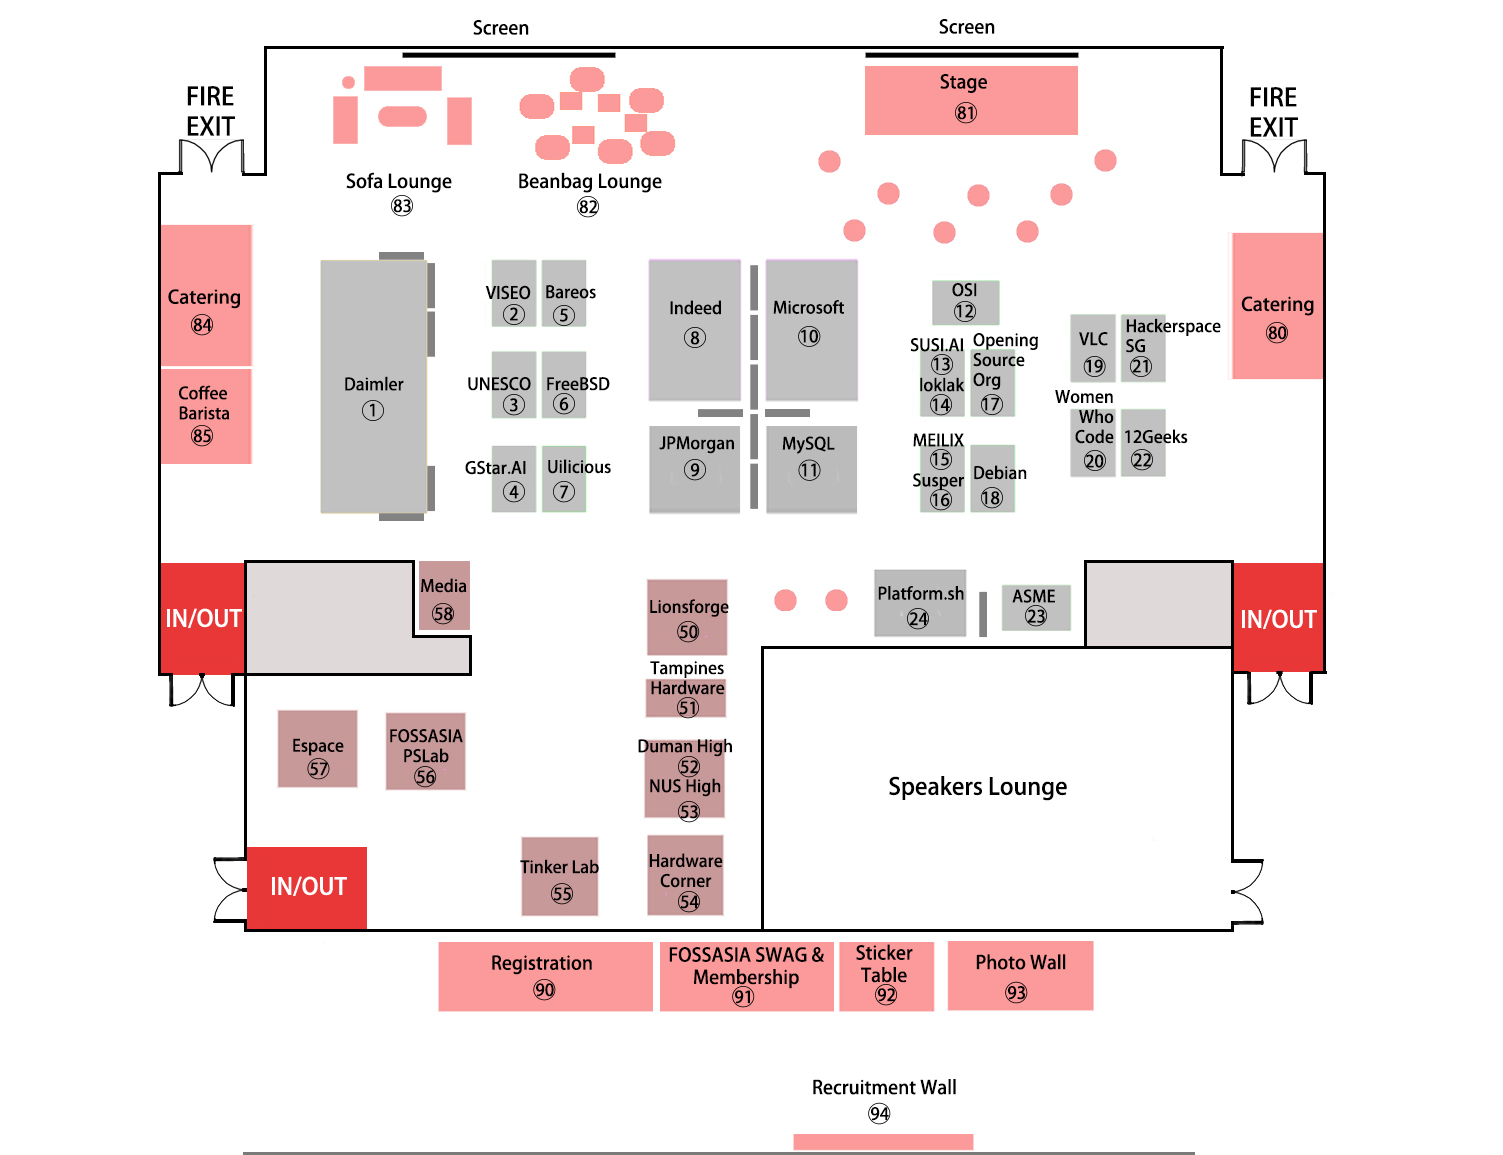
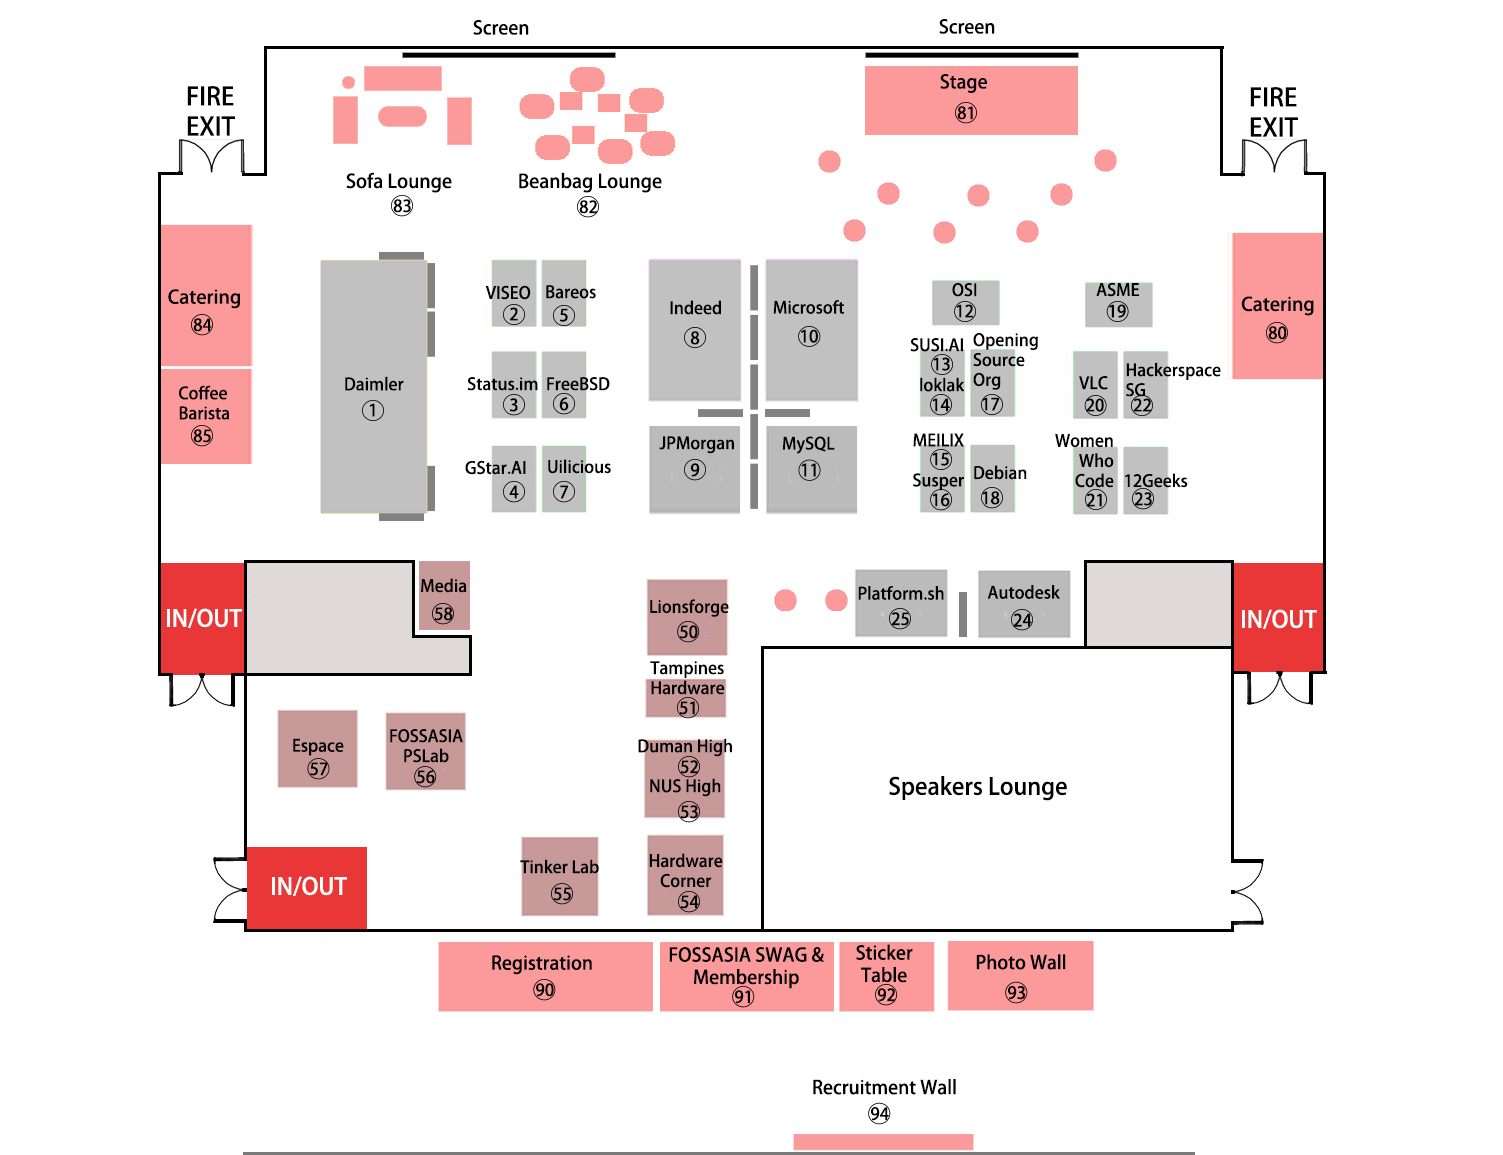
To fix #594 (#595)

Changed region(s): [[0.7039, 0.2182, 0.8263, 0.4675], [0.5509, 0.4675, 0.7039, 0.561], [0.3061, 0.3117, 0.3673, 0.3429]]

diff --git a/exhibition/index.html b/exhibition/index.html
@@ -1039,15 +1039,7 @@
                                         <div class="bottom"></div>
                                     </div>
                                 </li>
-
-                            </ul>
-                        </div>
-
-                       <div class="col-sm-6 col-md-4">
-                            <ul class="schedule-overview">
-                                 
-                                 
-                                 <li>
+                                <li>
                                     <div class="schedule-title">
                                         <span class="time">Lifelong Learning Institute</span>
                                         <span class="title">SkillsFuture Singapore<br></span>
@@ -1061,7 +1053,6 @@
                                             <a target="default" href="https://www.linkedin.com/lifelong-learning-institute-sg/">
                                                 <i class="icon social_linkedin"></i>
                                             </a>
-                                            
                                         </span>
                                     </div>
 
@@ -1075,6 +1066,12 @@
                                         <div class="bottom"></div>
                                     </div>
                                 </li>
+
+                            </ul>
+                        </div>
+
+                       <div class="col-sm-6 col-md-4">
+                            <ul class="schedule-overview">
                                  <li>
                                     <div class="schedule-title">
                                         <span class="time">LionsForge</span>
@@ -1083,7 +1080,6 @@
                                             <a target="default" href="https://lionsforge.com.sg">
                                                 <i class="icon fa fa-external-link"></i>
                                             </a>
-                                            
                                         </span>
                                     </div>
 
@@ -1331,12 +1327,40 @@
                                         <div class="bottom"></div>
                                     </div>
                                 </li>
+                                <li>
+                                    <div class="schedule-title">
+                                        <span class="time">Status.im</span>
+                                        <span class="title">Decentralized Software Development<br></span>
+                                                                                <span class="title"><span>
+                                            <a target="default" href="https://openbounty.status.im/">
+                                            <i class="icon fa fa-external-link"></i>
+                                            </a>
+                                            <a target="default" href="https://twitter.com/ethstatus">
+                                                <i class="icon social_twitter"></i>
+                                            </a>
+                                            <a target="default" href="https://www.facebook.com/ethstatus">
+                                                <i class="icon social_facebook"></i>
+                                            </a>
+                                        </span>
+                                    </div>
+
+                                    <div class="schedule-text">
+                                        <p>Not just a bounty platform to build features and solve bugs that core contributors don't have time to tackle. At Open Bounty, we are redefining software development to make it workable in a decentralised world. Space where repository maintainers can come together, incentivize work, and find great talent. A hub for developers, to search for and contribute to meaningful open source projects and be rewarded for their efforts. At Open Bounty we are building the hub of development work in a decentralised, open and transparent ecosystem.</p>
+                                    </div>
+
+                                    <div class="marker-pin">
+                                        <div class="top"></div>
+                                        <div class="middle"></div>
+                                        <div class="bottom"></div>
+                                    </div>
+                                </li>
                                   <li>
                                     <div class="schedule-title">
                                         <span class="time">SUSI.AI</span>
                                         <span class="title">Your Smart Personal Assistants<br></span>
                                                                                 <span class="title"><span>
-                                            <a target="default" href="https://susi.ai"></i>
+                                            <a target="default" href="https://susi.ai">
+                                                <i class="icon fa fa-external-link"></i>
                                             </a>
                                             <a target="default" href="https://twitter.com/susiai_">
                                                 <i class="icon social_twitter"></i>
@@ -1362,9 +1386,6 @@
                                         <div class="bottom"></div>
                                     </div>
                                 </li>
-
-
-                                 
                                  <li>
                                     <div class="schedule-title">
                                         <span class="time">Susper</span>
